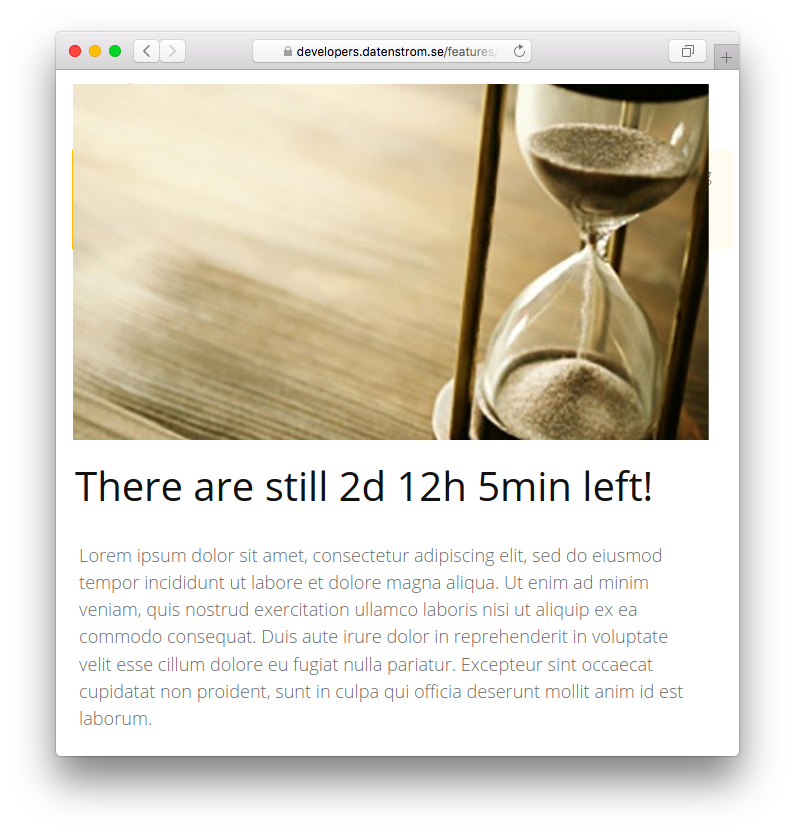
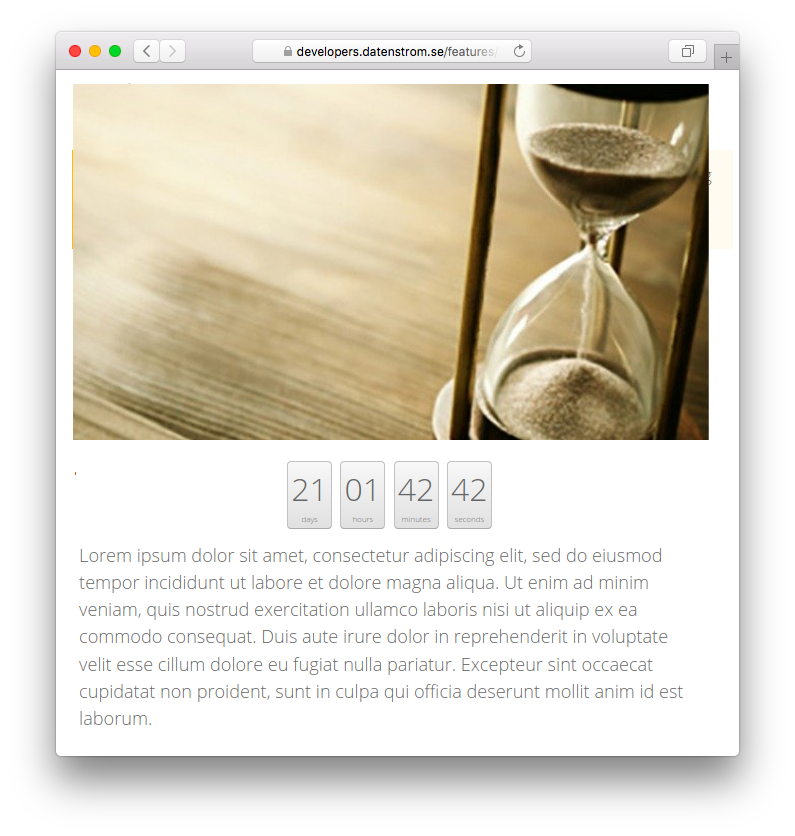
Digital mode, localisation, refactoring

Changed region(s): [[0.0906, 0.5598, 0.8151, 0.6531]]

diff --git a/countdown.js b/countdown.js
@@ -1,30 +1,56 @@
 "use strict";
 document.addEventListener("DOMContentLoaded", function() {
-    var timers = document.getElementsByClassName("countdown");
-    var now;
+    if (!String.prototype.padStart) { // polyfill
+        String.prototype.padStart = function padStart(targetLength, padString) {
+            if (this.length > targetLength) return this;
+            else return (padString.repeat(targetLength) + this).slice(-targetLength);
+        };
+    }
+    var timers = Array.from(document.getElementsByClassName("countdown"));
+    var now, labels;
     if (timers) {
         function update() {
-            var precs = { "days": 0, "hours": 1, "mins": 2, "secs": 3 };
             var units = [86400, 3600, 60, 1];
-            var labels = ["d", "h", "min", "s"];
             for (var i = 0; i < timers.length; i++) {
+                var block = timers[i].tagName == "DIV";
                 var distance = timers[i].dataset.time - now;
-                if (distance > 0) {
-                    var text = "";
-                    var p = precs[timers[i].dataset.precision];
-                    for (var j = 0; j <=3; j++) {
-                        var q = ~~(distance / units[j]);
-                        text += q ? (" " + q + labels[j]) : "";
-                        if (p <= j && text.length > 0) break;
-                        distance -= q * units[j];
+                if (block) {
+                    if (distance > 0) {
+                        var acc = 0;
+                        for (var j = 0; j <=3; j++) {
+                            var q = ~~(distance / units[j]);
+                            timers[i].children[j].firstChild.textContent = q.toString().padStart(2, "0");
+                            if (acc == 0) timers[i].children[j].style.display = "inline-block";
+                            acc += q;
+                            distance -= q * units[j];
+                        }
+                    } else {
+                        for (var j = 0; j <=3; j++) {
+                            timers[i].children[j].firstChild.textContent = "00";
+                        }
+                        timers[i].classList.add("expired");
+                        timers.splice(i, 1);
                     }
-                    timers[i].textContent = timers[i].dataset.running.replace("@time", text);
                 } else {
-                    timers[i].textContent = timers[i].dataset.expired;
-                    timers[i].classList.add("expired");
+                    if (distance > 0) {
+                        labels = labels || timers[i].dataset.labels.split(/,\s*/);
+                        var text = "";
+                        var p = +timers[i].dataset.precision;
+                        for (var j = 0; j <=3; j++) {
+                            var q = ~~(distance / units[j]);
+                            text += q ? (" " + q + "\xa0" + (q == 1 ? labels[j*2] : labels[j*2+1])) : "";
+                            if (p <= j && text.length > 0) break;
+                            distance -= q * units[j];
+                        }
+                        timers[i].textContent = timers[i].dataset.running.replace("@time", text);
+                    } else {
+                        timers[i].textContent = timers[i].dataset.expired;
+                        timers[i].classList.add("expired");
+                        timers.splice(i, 1);
+                    }
                 }
             }
-            now = now + 1;
+            now++;
         }
         if (window.XMLHttpRequest) {
             var xhttp = new XMLHttpRequest();

diff --git a/countdown-button.css b/countdown-button.css
@@ -1,0 +1,23 @@
+.content .countdown.expired {
+    color: red;
+}
+.content span.countdown {
+    /* formatting for the textual timer*/
+}
+.content div.countdown {
+    text-align: center;
+    font-size: 2em;
+}
+.content div.countdown > span {
+    text-align: center;
+    padding: 0.1em;
+    border-radius: 4px;
+    border: 1px solid #bbb;
+    border-color: #c1c1c1 #c1c1c1 #aaaaaa;
+    background-image: linear-gradient(to bottom, #f8f8f8, #e1e1e1);
+    display: inline-block;
+}
+.content div.countdown > span > span.label { 
+    font-size: 0.25em;
+    display: block;
+} 

diff --git a/countdown-plain.css b/countdown-plain.css
@@ -1,0 +1,22 @@
+.content .countdown.expired {
+    color: red;
+}
+.content span.countdown {
+    /* formatting for the textual timer*/
+}
+.content div.countdown {
+    text-align: center;
+    font-size: 2em;
+    border-top: solid 1px #C7C7C7;
+    border-bottom: solid 1px #C7C7C7;
+}
+.content div.countdown > span {
+    text-align: center;
+    padding: 0.1em;
+    display: inline-block;
+}
+.content div.countdown > span > span.label { 
+    text-transform: uppercase;
+    font-size: 0.23em;
+    display: block;
+}

diff --git a/countdown-squared.css b/countdown-squared.css
@@ -1,0 +1,21 @@
+.content .countdown.expired {
+    color: red;
+}
+.content span.countdown {
+    /* formatting for the textual timer*/
+}
+.content div.countdown {
+    text-align: center;
+    font-size: 2em;
+}
+div.countdown > span {
+    text-align: center;
+    padding: 0.1em;
+    background-color: #bbbbbb;
+    display: inline-block;
+} 
+div.countdown > span > span.label { 
+    background-color: #ffffff;
+    font-size: 0.25em;
+    display: block;
+}

diff --git a/countdown.php b/countdown.php
@@ -11,20 +11,38 @@ class YellowCountdown {
     // Handle initialisation
     public function onLoad($yellow) {
         $this->yellow = $yellow;
+        $this->yellow->system->setDefault("countdownSymbols", "0");
+        $this->yellow->system->setDefault("countdownStyle", "plain");
     }
     
     // Handle page content of shortcut
     public function onParseContentShortcut($page, $name, $text, $type) {
         $output = null;
         if ($name=="countdown" && ($type=="block" || $type=="inline")) {
-            list($time, $precision, $running, $expired) = $this->yellow->toolbox->getTextArgs($text);
-            $output = "<span class=\"countdown\" ";
-            $output .= "role=\"timer\" "; // 
-            $output .= "data-time=\"".strtotime($time)."\" ";
-            $output .= "data-precision=\"".($precision ? $precision : "mins")."\" ";
-            $output .= "data-running=\"".($running ? $running : "@time")."\" ";
-            $output .= "data-expired=\"".($expired ? $expired : "")."\">";
-            $output .= "</span>";
+            list($time, $precision, $style, $running, $expired) = $this->yellow->toolbox->getTextArgs($text);
+            $labels = $this->yellow->page->get("countdownSymbols") ? ["d", "d", "h", "h", "min", "min", "s", "s"] : array_map("trim", explode(",", $this->yellow->text->get("countdownLabels")));
+            $precs = [ "days" => 0, "hours" => 1, "mins" => 2, "secs" => 3 ];
+            $precisionCode = isset($precs[$precision]) ? $precs[$precision] : 2;
+            if ($type=="block") {
+                $output .= "<div class=\"countdown";
+                if (!empty($style)) $output .= " ".htmlspecialchars($style);
+                $output .= "\" ";
+                $output .= "role=\"timer\" ";
+                $output .= "data-time=\"".strtotime($time)."\">";
+                for ($i = 0; $i < 4; $i++) {
+                    $output .= "<span".($i > $precisionCode ? " style=\"display: none\"" : "")."><span>00</span> <span class=\"label\">".$labels[$i*2+1]."</span></span>\n";
+                }
+                $output .= "</div>";
+            } else {
+                $output = "<span class=\"countdown\" ";
+                $output .= "role=\"timer\" ";
+                $output .= "data-time=\"".strtotime($time)."\" ";
+                $output .= "data-precision=\"".$precisionCode."\" ";
+                $output .= "data-running=\"".($running ? $running : "@time")."\" ";
+                $output .= "data-expired=\"".($expired ? $expired : "")."\" ";
+                $output .= "data-labels=\"".$this->yellow->text->get("countdownLabels")."\">";
+                $output .= "</span>";
+            }
         }
         return $output;
     }
@@ -34,6 +52,8 @@ class YellowCountdown {
         $output = null;
         if ($name == "header") {
             $extensionLocation = $this->yellow->system->get("coreServerBase").$this->yellow->system->get("coreExtensionLocation");
+            $style = $this->yellow->system->get("countdownStyle");
+            $output .= "<link rel=\"stylesheet\" type=\"text/css\" media=\"all\" href=\"{$extensionLocation}countdown-{$style}.css\" />\n";
             $output .= "<link rel=\"stylesheet\" type=\"text/css\" media=\"all\" href=\"{$extensionLocation}countdown.css\" />\n";
             $output .= "<script type=\"text/javascript\" src=\"{$extensionLocation}countdown.js\"></script>\n";
         }

diff --git a/README.md b/README.md
@@ -1,6 +1,6 @@
 Countdown 0.8.10
 =============
-Textual countdown timer.
+Textual or digital countdown timer.
 
 <p align="center"><img src="countdown-screenshot.png?raw=true" width="795" height="836" alt="Screenshot"></p>
 
@@ -14,16 +14,28 @@ To uninstall delete the [extension files](extension.ini).
 
 ## How to insert a countdown
 
-Create a `[countdown]` shortcut. 
+Create a `[countdown]` shortcut. The timer will be shown in a textual style if the shortcut is used in-line (i.e. among other text), in a digital style if it is used as a block (i.e. alone in a paragraph).
 
 The following arguments are available, all but the first argument are optional:
 
-`deadline` = deadline in format `YYYY-MM-DD` (you can omit days) or `"YYYY-MM-DD HH:MM:SS"` (you can omit seconds)  
-`precision` (default: `mins`) = precision of the timer (possible values: `days`, `hours`, `mins`, `secs`); whatever precision is set, it will scale up when the time is running out  
-`runningMessage` (default: `"@time"`) = text for showing the time left (`@time` will be replaced with the actual time)  
-`expiredMessage` (default: `""`) = text when the time is expired   
+`Deadline` = deadline in format `YYYY-MM-DD` (you can omit days) or `"YYYY-MM-DD HH:MM:SS"` (you can omit seconds)  
+`Precision` (default: `mins`) = precision of the timer (possible values: `days`, `hours`, `mins`, `secs`); whatever precision is set, it will scale up when the time is running out  
+`Alignement` (default: `center`) = countdown alignement, e.g. `left`, `center`, `right`  
+`RunningMessage` (default: `"@time"`) = text for showing the time left (`@time` will be replaced with the actual time)  
+`ExpiredMessage` (default: `""`) = text shown when the time is expired   
 
-If you want to modify the style, change the `countdown.css` file.
+`Alignement` is ignored for textual timers; `RunningMessage` and `ExpiredMessage` are ignored for digital timers.
+
+## Settings
+
+The following settings can be configured in file `system/settings/system.ini`.
+
+`CountdownSymbols` (default: `0`) = show SI symbols ("d", "h", "min", "s") instead of localised strings (e.g. "days", "hours" etc.), 1 or 0  
+`CountdownStyle` (default: `plain`) = digital countdown graphical style (you can choose between `plain`, `squared`, `button`)  
+
+Remember also to set `CoreServerTimezone` (e.g. `Europe/Rome`) for the countdown to work properly.
+
+If you want to add a new `fancy` style, write a `countdown-fancy.css`  file and put into the `system/extensions` folder. Do not modify the standard styles, since they will be overwritten in case of update of the extension.
 
 ## Examples
 
@@ -31,7 +43,8 @@ Embedding a countdown timer, with various options:
 
     [countdown 2021-07-21]
     [countdown "2020-06-04 15:00"]
-    [countdown 2021-07-21 hours "Still @time left!" "Sorry, the time is expired!"]
+    [countdown 2021-07-21 hours left] 
+    [countdown 2021-07-21 hours - "Still @time left!" "Sorry, the time is expired!"]  
 
 ## Developer
 
